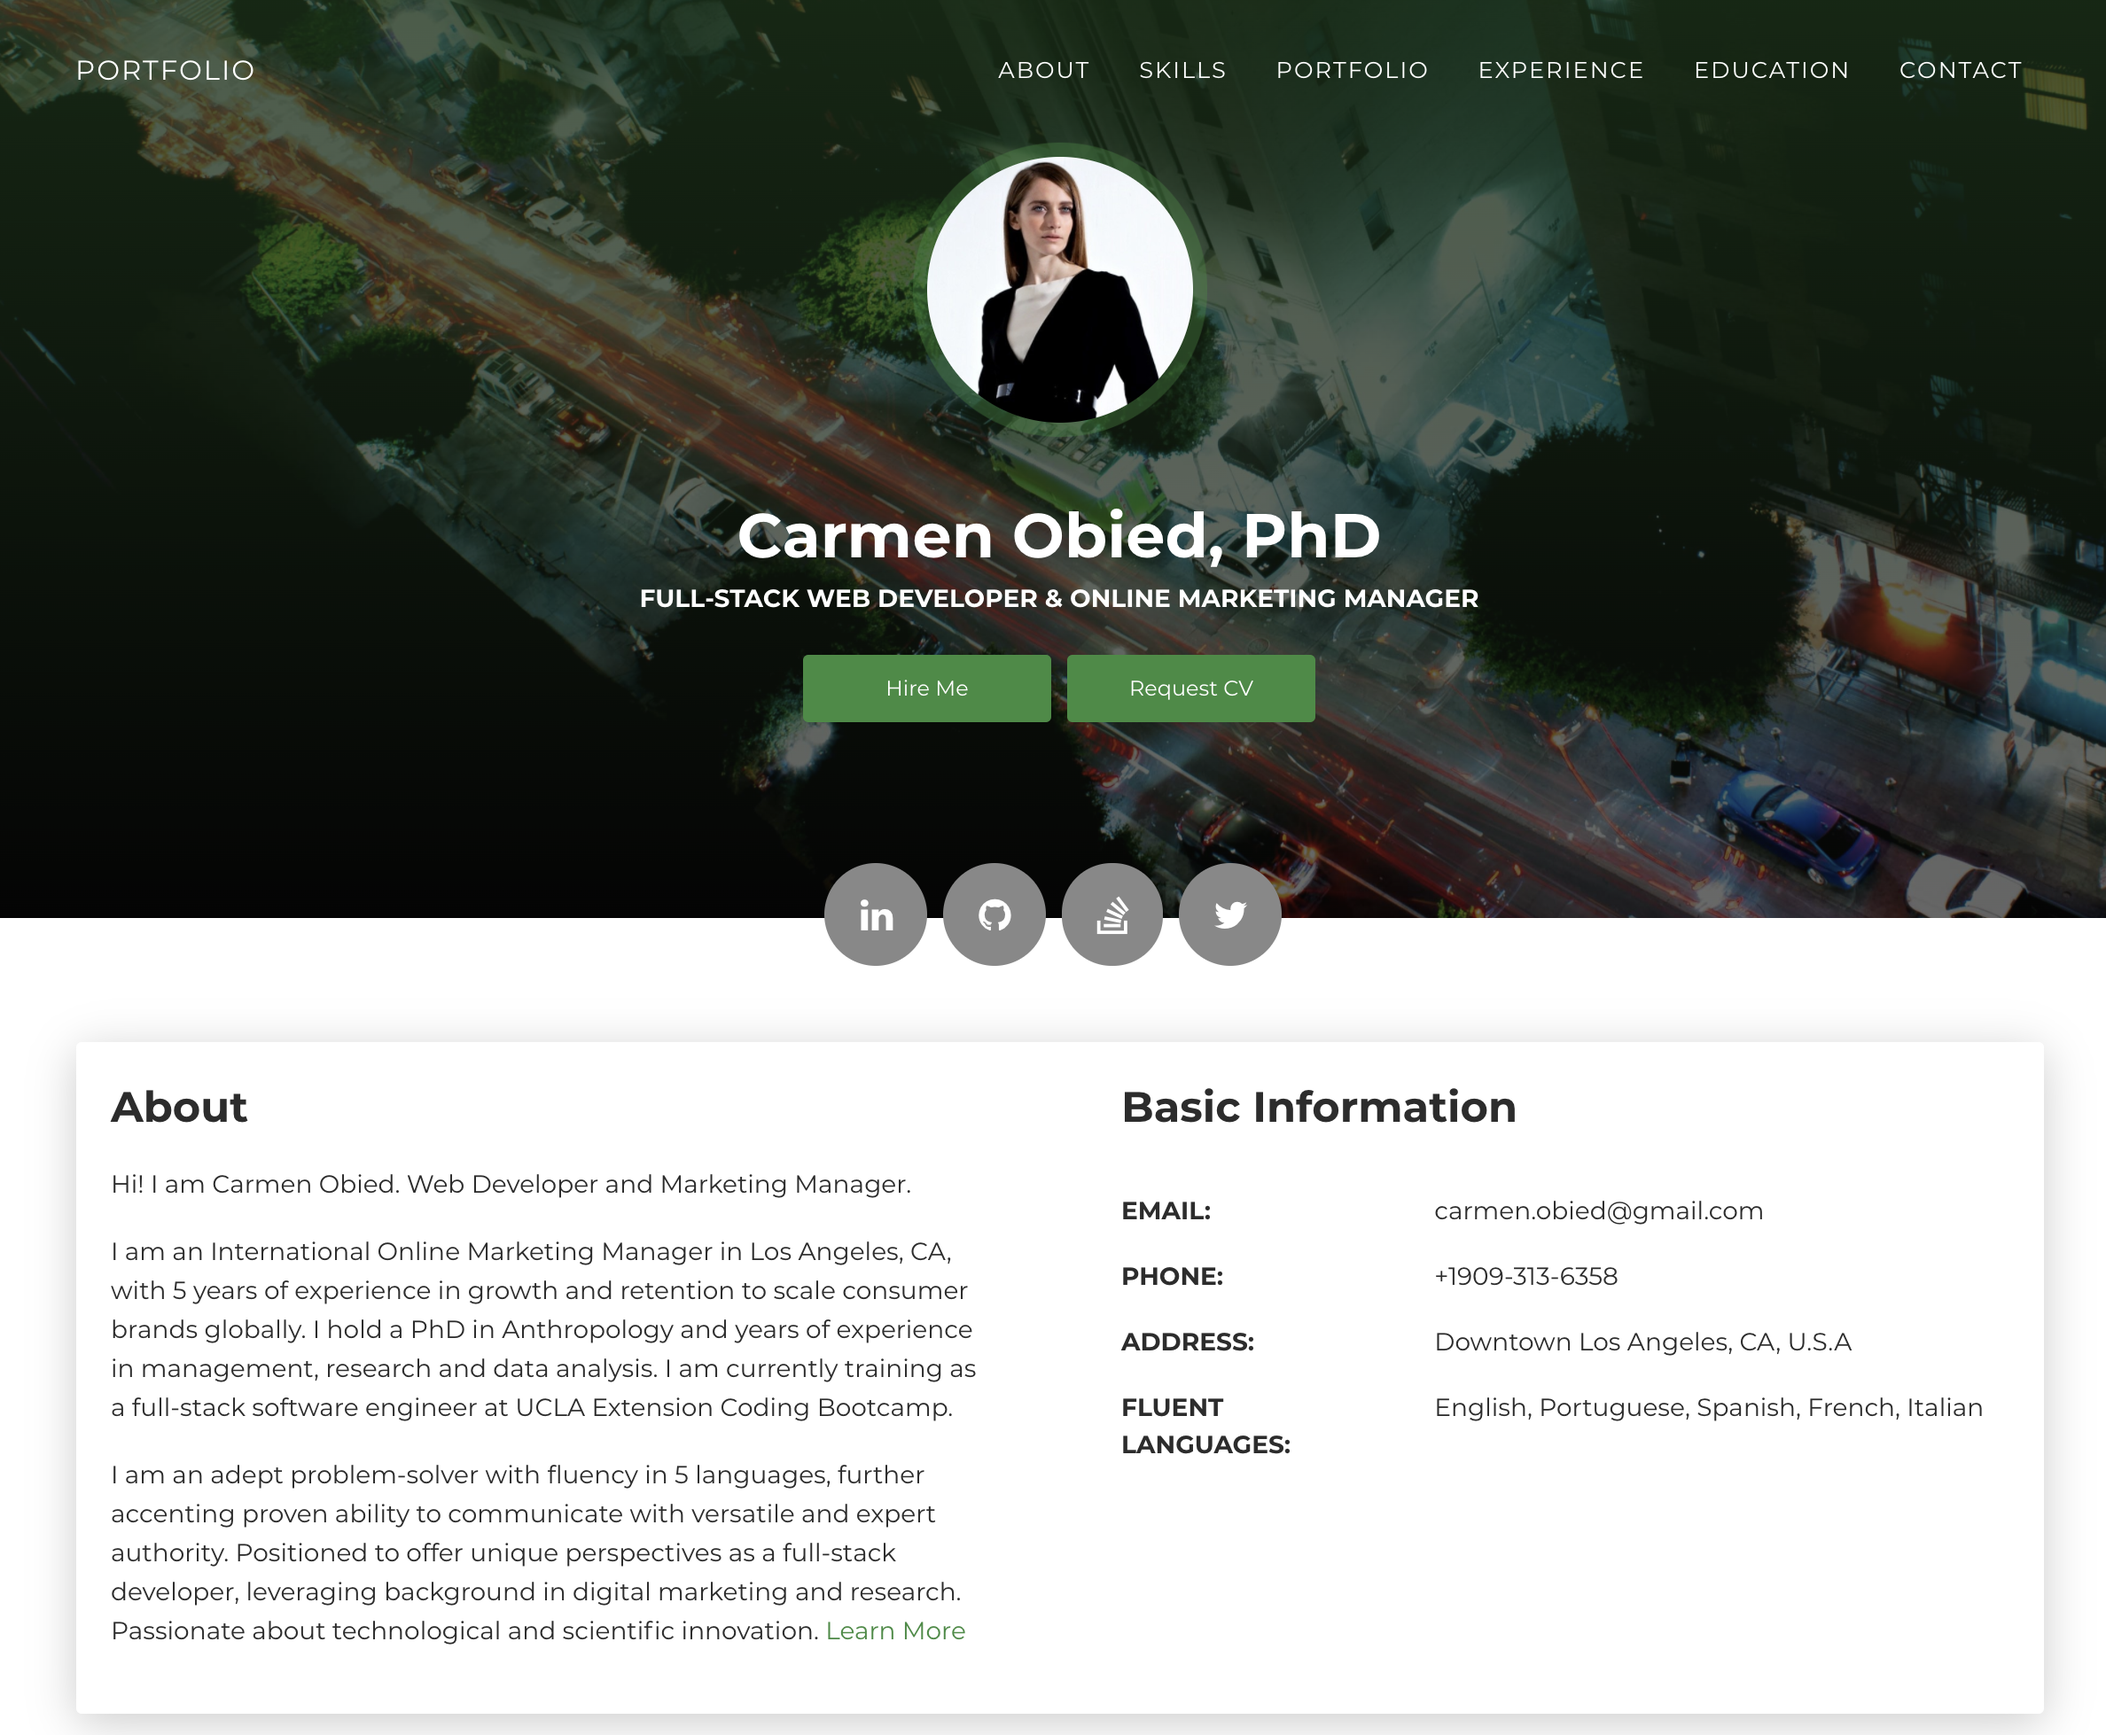
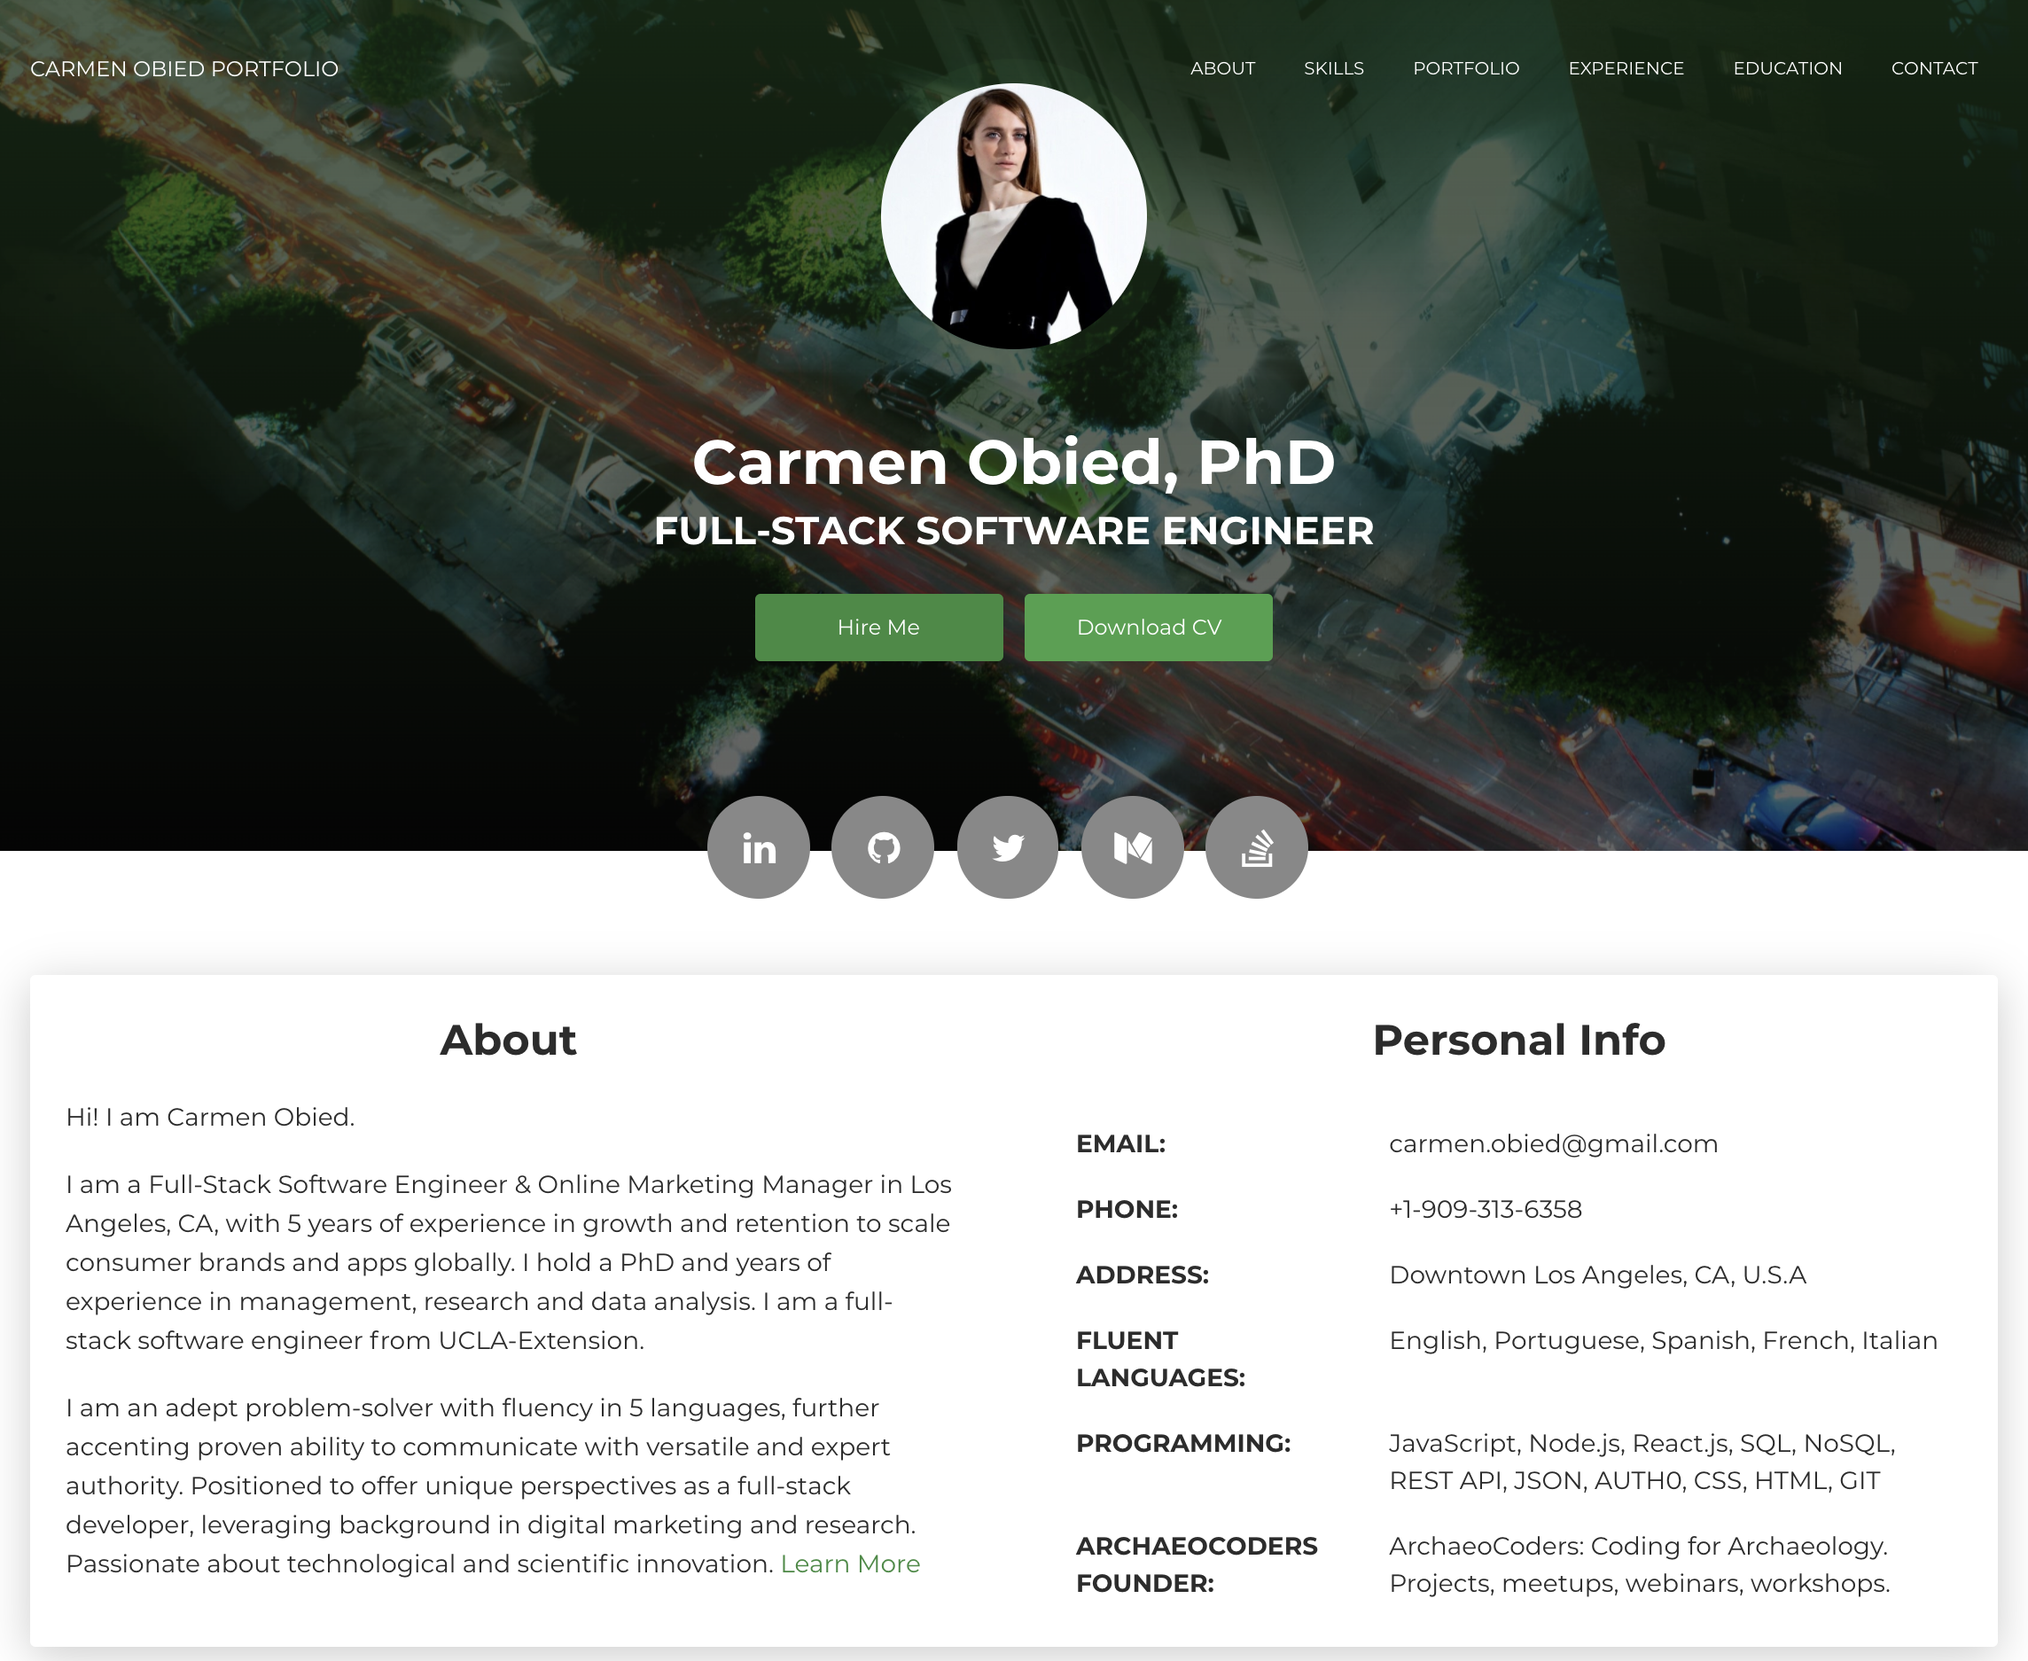
portfolio updates, refactored code, improved layout

diff --git a/index.html b/index.html
@@ -50,7 +50,7 @@
           <div class="h2 title">Carmen Obied, PhD</div>
           <h5 class="category text-white">Full-Stack Software Engineer</h5>
           <a class="btn btn-primary smooth-scroll mr-2" href="mailto:carmen.obied@gmail.com" data-aos="zoom-in" data-aos-anchor="data-aos-anchor">Hire Me</a>
-          <a class="btn btn-primary" href="assets/Software Engineer Resume_CO.pdf" data-aos="zoom-in" data-aos-anchor="data-aos-anchor" target="_blank">Download CV</a>
+          <a class="btn btn-primary" href="assets/images/Software _Engineer_Resume_CO.png" data-aos="zoom-in" data-aos-anchor="data-aos-anchor" target="_blank">Download CV</a>
           <!-- assets/Software Engineer Resume_CO.pdf -->
         </div>
       </div>

diff --git a/README.md b/README.md
@@ -29,7 +29,10 @@ Creative CV HTML template built with Bootstrap 4 and Now UI Kit.
 ```
 
 See screenshot below which demonstrates the application:
-![Portfolio Screenshot](images/CO_portfolio.png)
+![Portfolio Screenshot](assets/images/CO_portfolio.png)
+
+Access Resume file:
+![Resume File](assets/images/Software_Engineer_Resume)
 
 ## Credits
 Creative CV HTML template copyright (c) [2020] [Creative CV Template | TemplateFlip]
